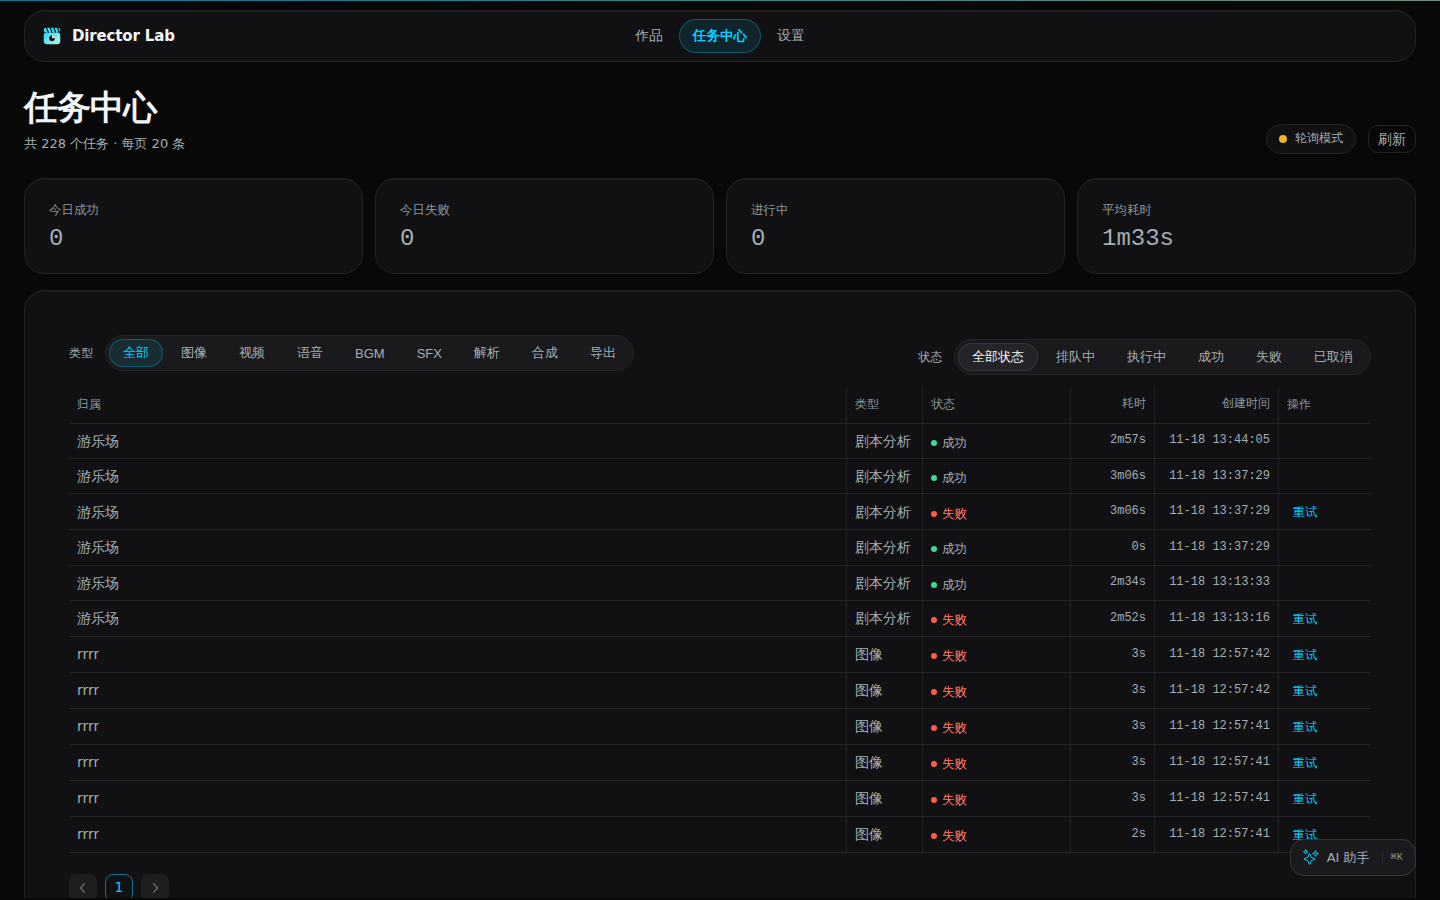
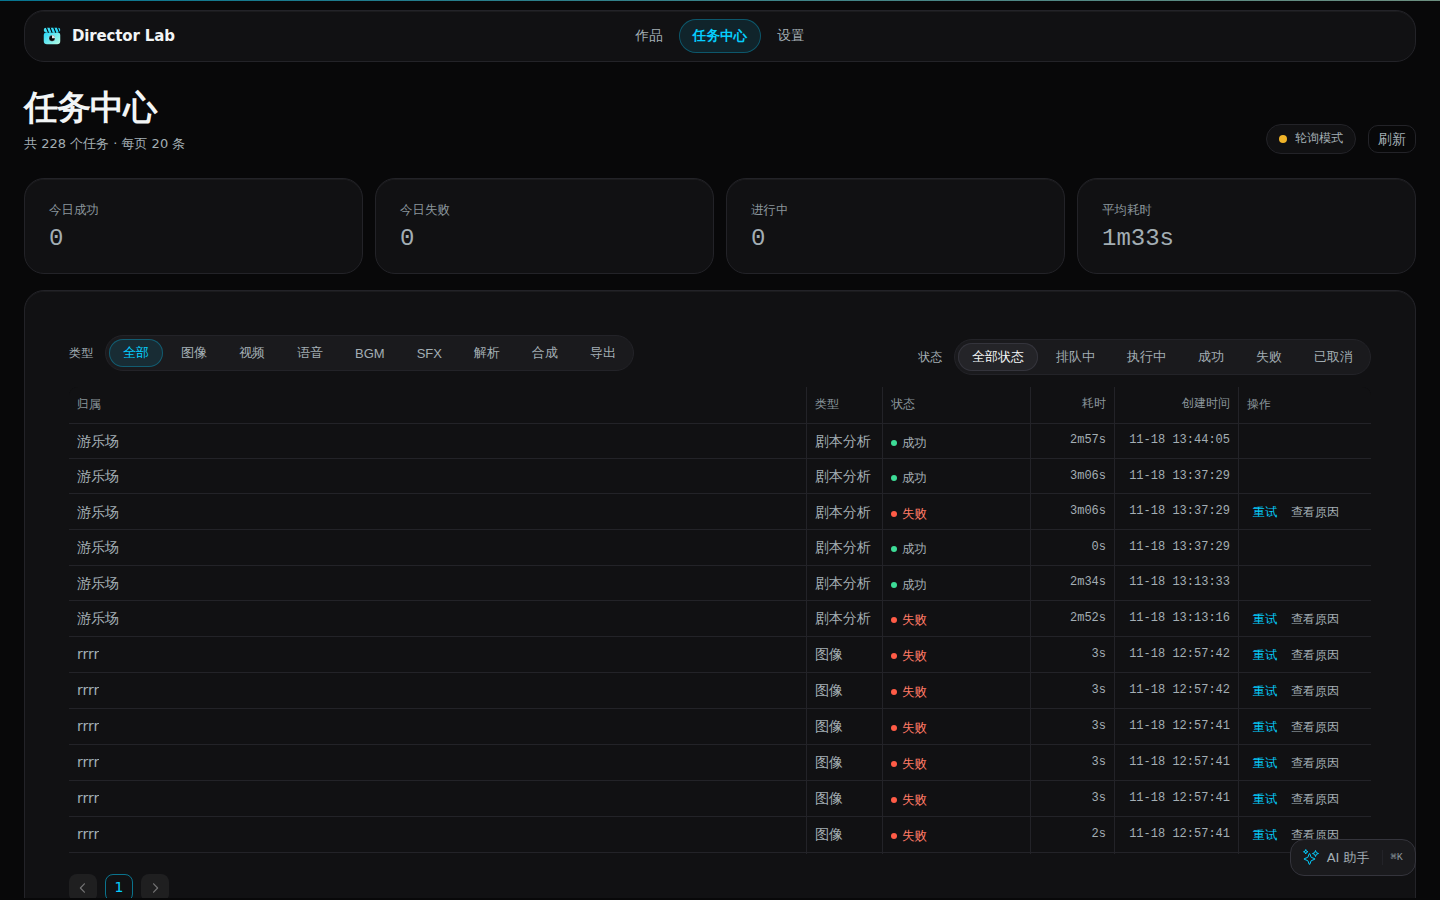
fix(ui): 任务表格失败行补「查看原因」，不再用 retryable 冒充错误分类
isEnvError() 的实现是 return job.retryable === true，而后端 retryable
的定义只是 failed/lost && attempts < job_max_attempts（api/v1/jobs.py:29）
—— 跟「是不是环境错误」无关。

DB 实测：comfy_unreachable 23 条、llm_invalid_output 12 条、
llm_output_truncated 3 条，retryable 全为 true。所以表格视图的
「查看原因」分支（给不可重试任务用的）永远走不到，用户看到失败任务
只有「重试」，永远不知道错在哪。

改为失败任务同时给「重试」+「查看原因」，不臆断错误分类：
- retryable 为真 → 两个按钮都给
- retryable 为假 → 只给「查看原因」
- 删除 isEnvError()，retryable 回归其真实语义（能不能再试）
- 操作列宽 92 → 132px 容纳两个按钮

验证（1440px, verify-jobs-desktop.mjs）：
  失败行操作列 ["重试", "查看原因"]
  overflowX false, scrollW 1440/clientW 1440

门禁：vue-tsc 0 error / build 9.87s / colors hex 0 / breakpoints 标准档 /
contrast >=4.5:1 / 60 张截图 FAIL 0

diff --git a/frontend/src/views/JobsView.vue b/frontend/src/views/JobsView.vue
@@ -167,10 +167,12 @@ function isStalled(job: Job): boolean {
   return !Number.isNaN(start) && Date.now() - start > STALL_THRESHOLD_MS
 }
 
-function isEnvError(job: Job): boolean {
-  // 环境类失败：连接超时、ComfyUI 不可达等；配置类：参数错误、工作流缺失等
-  return job.retryable === true
-}
+/**
+ * 注意：不要用后端 retryable 判断错误性质 —— 它只表示「还能再试」
+ * （failed/lost && attempts < max_attempts），与环境错误无关。
+ * 实测 comfy_unreachable(23) 和 llm_invalid_output(12) 的 retryable 都是 true，
+ * 所以失败任务一律同时给「重试」+「查看原因」，不做错误分类臆断。
+ */
 
 /**
  * error_code → 人话。后端 error_msg 常以英文技术细节为主
@@ -288,17 +290,28 @@ const columns = computed<DataTableColumns<Job>>(() => {
     render: (row) => fmtTime(row.created_at) },
   ]
   if (!hasActionable.value) return cols
-  cols.push({ title: '操作', key: 'actions', width: 92,
+  cols.push({ title: '操作', key: 'actions', width: 132,
     render: (row) => {
       if (row.status === 'failed' || row.status === 'lost') {
-        if (isEnvError(row)) {
-          return h(NButton, { size: 'tiny', type: 'primary', quaternary: true,
-            onClick: () => retryMutation.mutate(row.id) }, { default: () => '重试' })
+        /**
+         * 失败任务同时给「重试」和「查看原因」。
+         * 原实现用 isEnvError 二选一，但 isEnvError 的实现是 `retryable === true`，
+         * 而后端 retryable 的定义只是 `failed/lost && attempts < job_max_attempts`
+         * （api/v1/jobs.py:29）—— 跟「是不是环境错误」无关。
+         * 结果：llm_invalid_output（DB 实测 12 条）这类配置错误也被判成
+         * 「环境错误」，只显示「重试」，用户永远看不到失败原因。
+         * 这里不臆断错误分类，两个动作都给，与窄屏卡片视图一致。
+         */
+        const btns = []
+        if (row.retryable) {
+          btns.push(h(NButton, { size: 'tiny', type: 'primary', quaternary: true,
+            onClick: () => retryMutation.mutate(row.id) }, { default: () => '重试' }))
         }
-        return h(NTooltip, { style: { maxWidth: '460px' } }, {
+        btns.push(h(NTooltip, { style: { maxWidth: '460px' } }, {
           trigger: () => h(NButton, { size: 'tiny', quaternary: true }, { default: () => '查看原因' }),
           default: () => h('div', { class: 'err-tip' }, row.error_msg || '未记录错误原因'),
-        })
+        }))
+        return h('span', { class: 'cell-actions' }, btns)
       }
       if (row.status === 'queued' || row.status === 'running' || row.status === 'chained_wait') {
         return h(NButton, { size: 'tiny', type: 'error', quaternary: true,
@@ -916,6 +929,13 @@ const columns = computed<DataTableColumns<Job>>(() => {
   display: inline-flex;
   align-items: center;
   gap: 6px;
+}
+/* 失败任务的操作列同时放「重试」+「查看原因」，需要横排且不换行 */
+:deep(.cell-actions) {
+  display: inline-flex;
+  align-items: center;
+  gap: 2px;
+  white-space: nowrap;
 }
 /* 状态标记：圆点 + 文字，颜色只作辅助通道，避免整块填充抢走表格阅读节奏。
    颜色必须由类驱动（内联 style 优先级更高会让下面的降权规则全部失效）。 */

diff --git a/docs/uiux/round6-full-page-review.md b/docs/uiux/round6-full-page-review.md
@@ -219,10 +219,24 @@ retryable = j.status in ("failed", "lost") and (j.attempts or 0) < settings.job_
 `truncateError` 必要性：`comfy_unreachable` 的 `error_msg` 里带完整实例 URL，
 不截断会把卡片撑高。
 
-### 6.3 表格视图未改（遗留）
+### 6.3 表格视图（第六轮补修）
 
-`isEnvError` 语义问题在表格视图仍然存在。要不要把判定从「能不能再试」
-改成「是不是环境问题」（例如按 `error_code` 白名单），属于产品决策，本轮不动。
+原本表格视图仍用 `isEnvError`（= `retryable`）二选一，导致 `llm_invalid_output`
+这类配置错误只显示「重试」，看不到失败原因。
+
+第六轮已改为：失败任务**同时**给「重试」+「查看原因」，不再臆断错误分类。
+操作列宽 92 → 132px。
+
+验证（1440px，`verify-jobs-desktop.mjs`）：
+
+```
+失败行操作列  ["重试", "查看原因"]   ← 两个都在
+overflowX     false
+scrollW       1440 / clientW 1440
+```
+
+`isEnvError()` 已删除。判据改为直接用 `row.retryable` 决定「重试」是否可用 ——
+这才是该字段的真实语义（能不能再试），不再冒充错误分类。
 
 ## 7. 后端缺陷：SSE 长连接耗尽连接池
 
@@ -341,7 +355,7 @@ FAB 遮挡验证（`_chk-fab3.mjs`）：滚到底后 20 张卡的所有操作按
 | 项 | 状态 | 说明 |
 |---|---|---|
 | SSE 连接池耗尽 | ⚠ 后端缺陷，未修 | 见 §7.5，建议单独处理 |
-| `isEnvError` 语义错误 | ⚠ 仅卡片视图绕开 | 表格视图仍把配置错误显示为「可重试」 |
+| `isEnvError` 语义错误 | ✅ 已修 | 删除该函数，失败任务同时给「重试」+「查看原因」，不再臆断错误分类 |
 | 视觉 AI 误判「筛选未压缩」 | — | 实测 `filterRows=2` 正确：两条独立轴各一行，行内横向滚动 |
 | 第三张卡底部被视口截断 | — | 正常滚动，非缺陷 |
 | 截图脚本 `networkidle` 超时 | ✅ 已修 | settings/jobs 有常驻轮询，`networkidle` 永远等不到，改 `domcontentloaded` |

diff --git a/docs/uiux/page-improvement-plan.md b/docs/uiux/page-improvement-plan.md
@@ -456,4 +456,4 @@ frontend/scripts/diag-jobs.mjs                首屏各区块纵向占用
 | 项 | 说明 |
 |---|---|
 | SSE 耗尽连接池 | 后端 `events.py:42-67` yield 在 try 内，连接不释放。见 `round6-full-page-review.md` §7.5 |
-| `isEnvError` 语义错误 | 表格视图仍把 `llm_invalid_output` 等配置错误显示为「可重试」 |
+| `isEnvError` 语义错误 | ✅ 已修：删除该函数，失败任务同时给「重试」+「查看原因」 |
